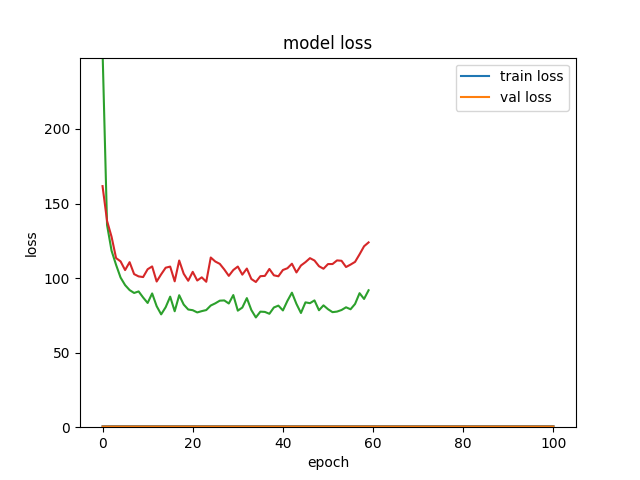
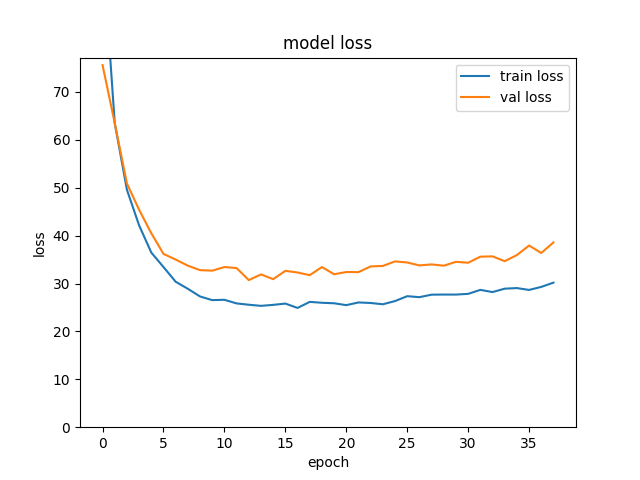
Added z-scaling to the script and re-ran the analysis
VAE (20 dim reduce) + Z-Scaling
	Logistic Regression
		Acc train = 0.69
		Acc test = 0.69

PCA (85% preserved) + Z-Scaling
	Logistic Regression
		Acc train = 0.67
		Acc test = 0.65

Not balanced accuracy - need to rerun the whole thing from lefse to confirm before proceed

But, Implement all network methods - get all the metric or measures as possible and then revisit this later

All predictions once all features are derived.

diff --git a/custom_model1.py b/custom_model1.py
@@ -151,6 +151,8 @@ data=pd.merge(data,vdf_norm,left_index=True,right_index=True)
 #Training and testing splitting
 X_train_d=data.reindex(y_train.index)
 X_test_d=data.reindex(y_test.index)
+scaler = StandardScaler()
+scaler.fit(data)
 del data
 #y_test and train - class replacment
 y_train=y_train["ExacerbatorState"]
@@ -257,9 +259,13 @@ def vae(X_train,y_train,X_test,dims = [14], epochs=2000, batch_size=1, verbose=2
         X_test_m, _, X_test = encoder.predict(X_test) #mean, variance,sample
         return(X_train_m,X_test_m,history)
 
+X_train_d=scaler.transform(X_train_d)
+X_test_d=scaler.transform(X_test_d)
+
 #Dimensionality reduction
+
 '''
-D_X_train_d,D_X_test_d,history= vae(X_train_d,y_train,X_test_d,dims=[80,20])
+D_X_train_d,D_X_test_d,history= vae(X_train_d,y_train,X_test_d,dims=[20])
 saveLossProgress(history)
 '''
 D_X_train_d,D_X_test_d=X_train_d,X_test_d
@@ -399,13 +405,13 @@ imp=0
 for i in range(100):
     rf=RandomForestClassifier(n_jobs=-1, n_estimators=150,min_samples_split=0.001,max_depth=None,min_samples_leaf
 =0.31669,class_weight="balanced",bootstrap=True)
-    rf.fit(X_train_d, y_train)
+    rf.fit(D_X_train_d, y_train)
     imp=imp+rf.feature_importances_
-    y_pred=rf.predict(X_test_d)
+    y_pred=rf.predict(D_X_test_d)
     print(confusion_matrix(y_test,y_pred))
-    x.append(rf.score(X_test_d,y_test))
+    x.append(rf.score(D_X_test_d,y_test))
 
 print("Median of testing acc",np.median(x))
-f_imp=pd.DataFrame([i for i in zip(X_train_d,imp)],columns=["Features","Importance"])
+f_imp=pd.DataFrame([i for i in zip(D_X_train_d,imp)],columns=["Features","Importance"])
 f_imp.to_csv("feature_importances.csv")
 
